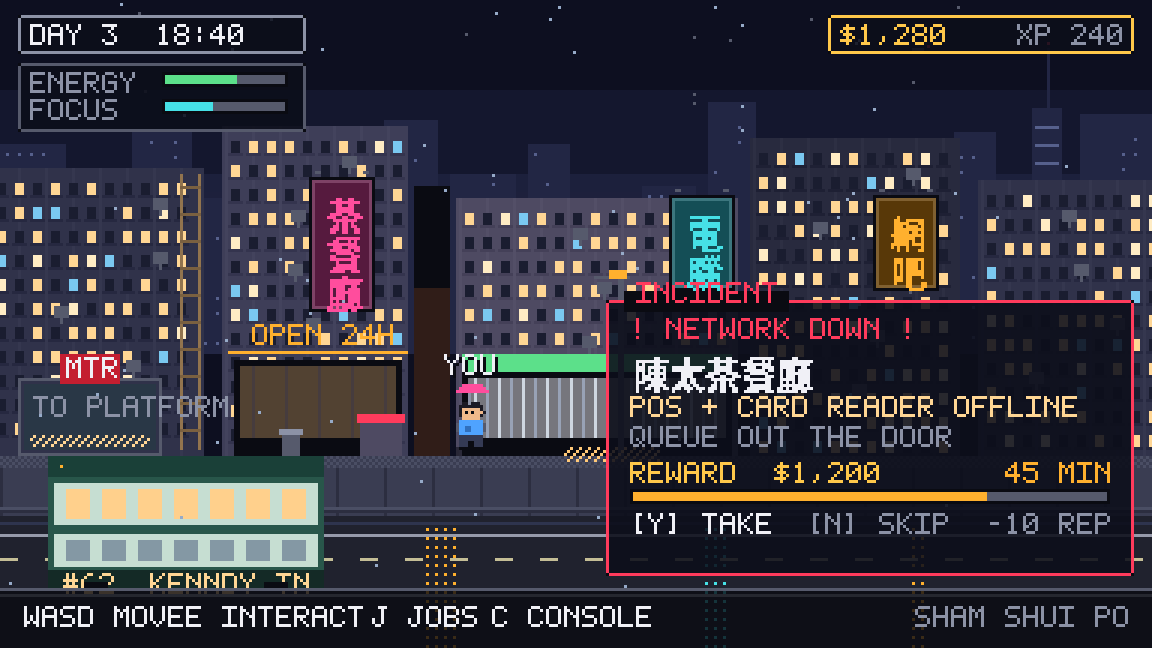
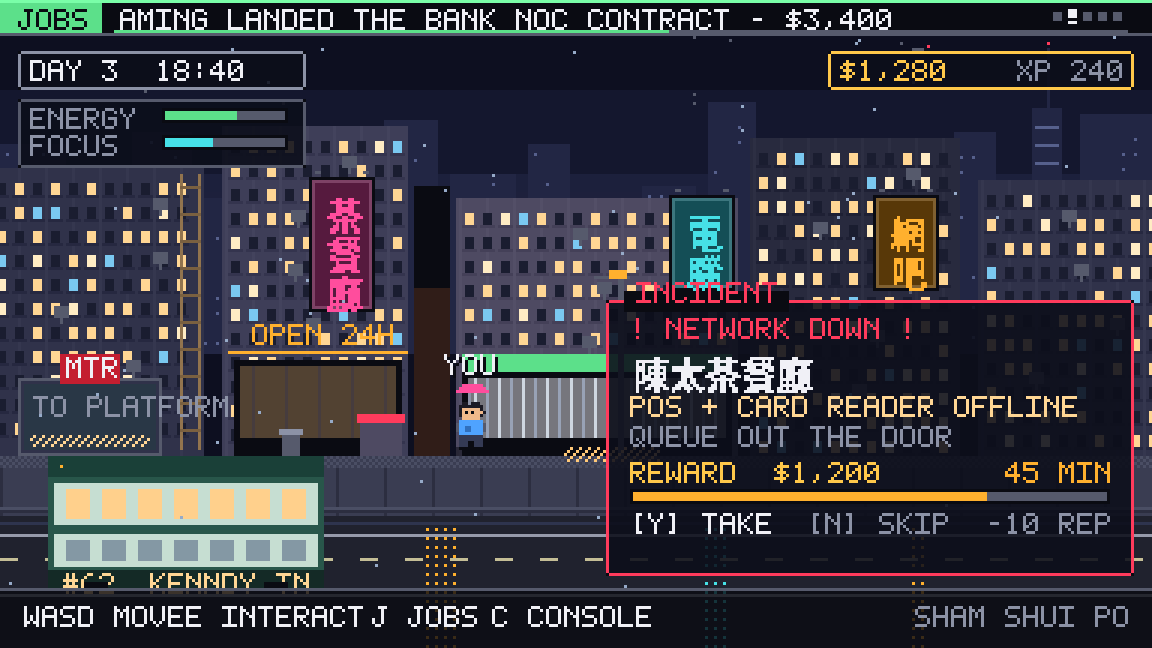
feat(wire): headline strip across every screen
Bloomberg-style 12 px strip at the top of the screen: world news, market
prices, distress calls, player milestones, and a richest-player fallback
when nothing has happened on the server.

- tools/mockup/wire.py: bar/breaking/leader renderers, slug taxonomy
- tools/mockup/scene_wire.py: spec sheet (in-context strip, fallback,
  breaking push, rotation rules)
- design doc 4.8 + 8.1: modes, dwell, flip-not-crawl rationale, and the
  server-authoritative replay that makes a money leaderboard honest
- risks: leaderboard inflation, comparison pressure, ticker as noise

Changed region(s): [[0.0, 0.0, 1.0, 0.2778]]

diff --git a/tools/mockup/wire.py b/tools/mockup/wire.py
@@ -1,0 +1,100 @@
+"""The wire — a Bloomberg-style headline strip across the top of the screen.
+
+Item taxonomy and colour coding live here so every scene draws it identically.
+Copy budget at scale 1: (384 - 40 - 40) // 6 = 50 characters.
+"""
+from __future__ import annotations
+
+import sys
+import os
+
+sys.path.insert(0, os.path.dirname(os.path.abspath(__file__)))
+from pixelart import Canvas, P, text_width  # noqa: E402
+
+WIRE_H = 12          # 1 border + 10 text + 1 border
+SLUG_W = 34          # "ALERT" is 5 chars = 30 px, so 34 with padding
+
+MODES = {
+    # mode: (slug, fill, text-on-slug)
+    "news":     ("WIRE", P["neon_cyan"]),
+    "market":   ("MKT", P["gold"]),
+    "distress": ("ALERT", P["neon_amber"]),
+    "player":   ("JOBS", P["neon_green"]),
+    "rich":     ("RICH", P["gold"]),
+    "breaking": ("LIVE", P["neon_red"]),
+}
+
+
+def tags(c: Canvas, x, y, total, active):
+    """Queue pips, so the player knows the strip repeats and how far in they are."""
+    for i in range(total):
+        col = P["white"] if i == active else P["grey_dk"]
+        if i == active:
+            c.rect(x + i * 5, y, 3, 3, col)
+            c.rect(x + i * 5, y + 4, 3, 1, col)
+        else:
+            c.rect(x + i * 5, y + 1, 3, 3, col)
+
+
+def bar(c: Canvas, mode: str, text: str, x=0, y=0, w=384, queue=(4, 0), dwell=0.6):
+    slug, colour = MODES[mode]
+    c.rect(x, y, w, WIRE_H, P["ink"])
+    c.hline(x, y, w, tuple(min(255, ch + 30) for ch in colour[:3]) + (255,))
+    c.hline(x, y + WIRE_H - 1, w, P["grey_dk"])
+    # slug
+    c.rect(x, y + 1, SLUG_W, WIRE_H - 2, colour)
+    c.text_c(x + SLUG_W // 2, y + 3, slug, P["ink"])
+    # headline
+    c.text(x + SLUG_W + 6, y + 3, text, P["white"])
+    # queue pips + dwell bar
+    total, active = queue
+    tags(c, x + w - 8 - total * 5, y + 3, total, active)
+    c.rect(x + SLUG_W + 4, y + WIRE_H - 2, w - SLUG_W - 12, 1, P["grey_dk"])
+    c.hline(x + SLUG_W + 4, y + WIRE_H - 2, int((w - SLUG_W - 12) * dwell), colour)
+
+
+def breaking(c: Canvas, headline: str, detail: str, x=0, y=0, w=384):
+    """Two lines, taller, red. Interrupts anything, including a job in progress."""
+    h = 22
+    c.alpha_rect(x, y, w, h, P["ink"], 245)
+    c.frame(x, y, w, h, P["neon_red"])
+    c.rect(x + 1, y + 1, 28, h - 2, P["neon_red"])
+    # pulsing dot, drawn static in mockups
+    c.rect(x + 11, y + 7, 5, 5, P["white"])
+    c.text(x + 34, y + 4, headline, P["neon_red"])
+    c.text(x + 34, y + 13, detail, P["grey"])
+    c.text_r(x + w - 6, y + 4, "[t] open", P["white"])
+    return h
+
+
+def leader(c: Canvas, rows, x=0, y=0, w=384, subtitle="RICH LIST - THIS CLASS"):
+    """Fallback mode: no live news, so the strip becomes the money scoreboard."""
+    c.rect(x, y, w, WIRE_H, P["ink"])
+    c.hline(x, y, w, P["gold"])
+    c.hline(x, y + WIRE_H - 1, w, P["grey_dk"])
+    c.rect(x, y + 1, SLUG_W, WIRE_H - 2, P["gold"])
+    c.text_c(x + SLUG_W // 2, y + 3, "RICH", P["ink"])
+    cx = x + SLUG_W + 6
+    for i, (rank, name, money, is_you) in enumerate(rows):
+        col = P["gold"] if is_you else P["white"]
+        label = f"{rank} {name} {money}"
+        c.text(cx, y + 3, label, col)
+        cx += text_width(label) + 10
+        if i < len(rows) - 1:
+            c.set(cx - 6, y + 6, P["grey_dk"])
+    c.text_r(x + w - 6, y + 3, "TAB", P["grey"])
+
+
+def legend(c: Canvas, x, y):
+    rows = [
+        ("WIRE", P["neon_cyan"], "world + player news, 6 s each"),
+        ("MKT", P["gold"], "prices, rent, wages, 2.5 s each"),
+        ("ALERT", P["neon_amber"], "distress call - opens the job board"),
+        ("PEOPLE", P["neon_green"], "anyone landed a job / promoted / bought"),
+        ("RICH", P["gold"], "fallback when nothing happened in 6 h"),
+    ]
+    for i, (slug, colour, desc) in enumerate(rows):
+        yy = y + i * 11
+        c.rect(x, yy, 30, 9, colour)
+        c.text_c(x + 15, yy + 1, slug, P["ink"])
+        c.text(x + 36, yy + 1, desc, P["grey"])

diff --git a/tools/mockup/scene_city.py b/tools/mockup/scene_city.py
@@ -7,6 +7,7 @@ import os
 
 sys.path.insert(0, os.path.dirname(os.path.abspath(__file__)))
 from pixelart import Canvas, P, text_width  # noqa: E402
+import wire  # noqa: E402
 
 W, H = 384, 216
 GROUND = 152          # pavement top
@@ -211,18 +212,17 @@ def rain(c: Canvas, rng):
         c.set(x, y, (150, 170, 200, 255))
 
 
-def hud(c: Canvas):
-    c.panel(6, 5, 96, 13, border=P["grey"])
-    c.text(10, 8, "day 3  18:40", P["white"])
-    c.panel(276, 5, 102, 13, border=P["gold"])
-    c.text(280, 8, "$1,280", P["gold"])
-    c.text_r(374, 8, "xp 240", P["grey"])
-    c.panel(6, 21, 96, 23, border=P["grey_dk"])
-    c.text(10, 24, "energy", P["grey"])
-    c.meter(54, 24, 42, 5, 0.62, P["neon_green"])
-    c.text(10, 33, "focus", P["grey"])
-    c.meter(54, 33, 42, 5, 0.40, P["neon_cyan"])
-    c.text(10, 41, "", P["grey"])
+def hud(c: Canvas, dy=0):
+    c.panel(6, 5 + dy, 96, 13, border=P["grey"])
+    c.text(10, 8 + dy, "day 3  18:40", P["white"])
+    c.panel(276, 5 + dy, 102, 13, border=P["gold"])
+    c.text(280, 8 + dy, "$1,280", P["gold"])
+    c.text_r(374, 8 + dy, "xp 240", P["grey"])
+    c.panel(6, 21 + dy, 96, 23, border=P["grey_dk"])
+    c.text(10, 24 + dy, "energy", P["grey"])
+    c.meter(54, 24 + dy, 42, 5, 0.62, P["neon_green"])
+    c.text(10, 33 + dy, "focus", P["grey"])
+    c.meter(54, 33 + dy, 42, 5, 0.40, P["neon_cyan"])
 
 
 def incident(c: Canvas):
@@ -260,7 +260,7 @@ def player(c: Canvas):
     c.text_c(x + 6, y - 16, "you", P["white"], shadow=P["ink"])
 
 
-def main():
+def render(with_wire=True):
     rng = random.Random(11)
     c = Canvas(W, H)
     sky(c, rng)
@@ -270,10 +270,19 @@ def main():
     tram(c, 16, 152)
     rain(c, rng)
     player(c)
-    hud(c)
+    if with_wire:
+        wire.bar(c, "player", "AMING LANDED THE BANK NOC CONTRACT - $3,400",
+                 queue=(5, 1), dwell=0.55)
+        hud(c, dy=wire.WIRE_H)
+    else:
+        hud(c)
     incident(c)
     footer(c)
-    c.save("01-city-night.png", scale=3)
+    return c
+
+
+def main():
+    render().save("01-city-night.png", scale=3)
 
 
 if __name__ == "__main__":

diff --git a/tools/mockup/scene_wire.py b/tools/mockup/scene_wire.py
@@ -1,0 +1,54 @@
+"""Mockup 05 — the wire: Bloomberg-style headline strip, its fallback and the breaking push."""
+from __future__ import annotations
+
+import sys
+import os
+
+sys.path.insert(0, os.path.dirname(os.path.abspath(__file__)))
+from pixelart import Canvas, P  # noqa: E402
+import wire  # noqa: E402
+import scene_city  # noqa: E402
+
+W, H = 384, 216
+
+
+def label(c: Canvas, y, s):
+    c.text(4, y, s, P["grey"])
+
+
+def main():
+    c = Canvas(W, H, (16, 17, 26, 255))
+
+    # --- in context: the top of the city screen, wire live
+    city = scene_city.render(with_wire=True)
+    c.paste(city.img.crop((0, 0, W, 92)), 0, 0)
+    c.alpha_rect(0, 86, W, 6, P["ink"], 200)
+    c.hline(0, 92, W, P["grey_dk"])
+
+    # --- sample 1: live news
+    label(c, 96, "MKT + NEWS - LIVE FEED, 6 S PER ITEM")
+    wire.bar(c, "market", "PARTS +12% AT GOLDEN ARCADE - CAT6 DRUM $680",
+             y=103, queue=(5, 2), dwell=0.35)
+
+    # --- sample 2: fallback leaderboard
+    label(c, 119, "FALLBACK - NOTHING HAPPENED ON THE SERVER FOR 6 H")
+    wire.leader(c, [("1", "AMING", "482K", False), ("2", "MS_CHAN", "310K", False),
+                    ("3", "YOU", "128K", True), ("4", "KEN", "96K", False)], y=126)
+
+    # --- sample 3: breaking push
+    label(c, 142, "BREAKING - TRUMPS ANY SCREEN, ONCE PER SESSION")
+    wire.breaking(c, "TYPHOON T8 - ALL TRANSPORT SUSPENDED",
+                  "emergency repairs pay 2x; you cannot reach the client",
+                  y=149)
+
+    # --- rules
+    c.text(4, 176, "alert = distress call, enter on the strip opens the job board", P["white"])
+    c.text(4, 186, "mkt = parts, rent and wages. 2.5 s dwell, gold slug.", P["white"])
+    c.text(4, 196, "rotation: newest first, then severity. pause on focus.", P["grey"])
+    c.text(4, 206, "no name is ever typed by a student - headlines are templates.", P["gold"])
+
+    c.save("05-wire.png", scale=3)
+
+
+if __name__ == "__main__":
+    main()

diff --git a/tools/mockup/build.py b/tools/mockup/build.py
@@ -9,6 +9,7 @@ import scene_city      # noqa: E402
 import scene_console   # noqa: E402
 import scene_home      # noqa: E402
 import scene_progress  # noqa: E402
+import scene_wire      # noqa: E402
 
-for mod in (scene_city, scene_console, scene_home, scene_progress):
+for mod in (scene_city, scene_console, scene_home, scene_progress, scene_wire):
     mod.main()

diff --git a/docs/design/game-design-document.md b/docs/design/game-design-document.md
@@ -4,7 +4,7 @@
 
 | | |
 |---|---|
-| **Status** | Concept v0.1 — direction agreed, systems drafted, demo not yet built |
+| **Status** | Concept v0.2 — direction agreed, systems drafted, wire spec'd, demo not yet built |
 | **Owner** | Ryan (ICT) · SSC-Program-Team |
 | **Repo** | `SSC-Program-Team/cit-game` |
 | **Platform** | Browser, desktop-first, keyboard-playable, offline-capable |
@@ -172,6 +172,33 @@ Two clocks: the **job clock** (the timed ticket) and the **city clock** (the wor
 - **Certs** (in-game, modelled on real ones): "CIT Certified Technician I/II", "Network Specialist", "Security Fundamentals". Each requires a mastery threshold and a practical exam job — never a multiple-choice test.
 - **Skill tree:** Diagnostics (faster checks), Configuration (fewer rework ticks), Security (audit reveals), Business (better quotes, staff quality).
 
+### 4.8 The wire — the headline strip
+
+Ten pixels at the top of every screen carry the world: who just landed a job, what broke, what parts cost this week, who is richest. It is the only part of the game that talks about other people, and it is what makes a solo session feel like a server.
+
+![The wire](../mockups/05-wire.png)
+
+| Slug | Content | Dwell | Source |
+|---|---|---|---|
+| `WIRE` | world + city news | 6 s | server events |
+| `MKT` | parts, rent, wage index | 2.5 s | economy ticks |
+| `ALERT` | distress call — a live job on the board | 6 s | job generator |
+| `JOBS` | a player landed / promoted / bought / certified | 6 s | validated player events |
+| `RICH` | the money leaderboard (fallback) | 8 s | standings query |
+| `LIVE` | breaking push, two lines, red | until dismissed | city events |
+
+**Rotation.** Newest first, then severity; one item at a time, 5-item window, queue pips on the right so the player knows the strip repeats. An item is never cut mid-word.
+
+**Fallback.** If the server produced no event in six in-game hours, the strip becomes `RICH` — the top four by money, class-scoped, with the player's own row in gold wherever they sit. The strip is never empty and never shows "no news"; a dead feed is worse than a boring one. `TAB` opens the full wire log and the full standings.
+
+**Breaking.** Typhoons, district outages, a client going dark, and one-per-session emergencies. It interrupts the city screen *and* the job screen, pauses nothing (the job clock keeps running), and `T` opens the story. Never more than one per session.
+
+**Interaction.** `ENTER` on an `ALERT` item opens the job board with that ticket pre-selected — the wire doubles as the job market, which is how real technicians find work.
+
+**Flip, not crawl.** A Bloomberg crawl at this font scrolls ~9 characters per second; a second-language reader loses the start of the sentence before it finishes. Default is a snap-flip with a dwell bar and queue pips; continuous crawl is a settings toggle for teachers who want atmosphere on a projector. `P` pauses the strip, and it pauses on keyboard focus.
+
+**During a job the strip shrinks to 0 px** except for `LIVE` — a ticker above a diagnostic console is a distraction tax on the exact task being assessed.
+
 ---
 
 ## 5. Learning design
@@ -271,6 +298,24 @@ cit-game/
 - **Testing:** Vitest on systems; Playwright smoke that plays all three demo jobs headless; a `sim:balance` script that runs 200 bot-played sessions to check the money curve before any tuning ships.
 - **Accessibility:** full keyboard play, remappable keys, text scale 1×/2×, colour never the only signal (shape + label for pass/fail), particle toggle, no flashing above 3 Hz, and a hard budget of **< 5 MB total assets** so it runs on a lab laptop over school Wi-Fi.
 
+### 8.1 The wire feed
+
+The strip has three sources, and which one ships when decides the whole backend story.
+
+| Version | Source | Why |
+|---|---|---|
+| v0.1 demo | `content/wire/npc_careers.json` — a scripted cast of 12 NPC technicians with their own careers | a class of three at 8 a.m. must not see an empty feed; the simulated world *is* the feature at this stage |
+| v1.0 class | server events from validated player completions | one class, one teacher, class-scoped standings |
+| v2.0 school | same table, more classes, opt-in global | comparison pressure is opt-in, never default |
+
+**Server-authoritative money, or no leaderboard.** The client never reports what it earned. On job completion it submits `{jobId, seed, taskLog, durationMs}`; the server replays the deterministic systems with that seed and derives the fee, mastery delta and rank. Only a replay that matches emits `player.job.completed`, and only those events can move the standings. This is the entire reason the systems in §8 are pure functions — a leaderboard that trusts `localStorage` is a leaderboard of whoever opened devtools.
+
+Additional guards: fee caps (a job can never pay more than its `fee × 1.2`), rate limits per handle, no client-supplied timestamps, and a teacher `unpublish` that hides any offending headline without deleting the event.
+
+**Text is templated, never authored.** Headlines are filled from validated fields (`{handle} landed the {jobTier} contract at {client}`, `{district} fibre cut — {n} client jobs at risk`). No student ever types a string that reaches another student's screen — that single rule removes abuse, doxxing and moderation from the problem list. Handles are generated at first run from a school-safe word list, with a custom option that is filtered and teacher-visible.
+
+**Privacy (PDPO).** The feed stores a handle, a money figure and a rank — no real names, no classes visible outside the class, no per-student event history retained past the term. Export and delete on request, and the whole feature can be switched off per class: some classes should not have a money ranking, and that is the teacher's call, not the design's.
+
 ---
 
 ## 9. v1 demo — one lesson
@@ -292,6 +337,7 @@ cit-game/
 5. Save survives a browser restart, and export/import round-trips.
 6. Works keyboard-only, at 60 fps on a 2019 lab laptop, under 5 MB.
 7. Editing one JSON file (e.g. the subnet requirement in job 2) changes the game with no code change, and CI rejects a malformed edit.
+8. The wire runs on the simulated NPC cast with at least 8 headline templates, falls back to `RICH` after six empty hours, and never shows an empty strip.
 
 **Explicitly out of scope for v1:** housing builds, business sim, MTR/districts, Chinese, accounts, leaderboards, mobile layout.
 
@@ -322,6 +368,9 @@ cit-game/
 | **Lab hardware** | old laptops, no GPU, school Wi-Fi | canvas fallback, < 5 MB, offline-capable, no server dependency |
 | **Data privacy** | student mastery data is personal data under the PDPO | local-first by default; any sync is opt-in, school-owned, documented |
 | **Teacher workload** | authoring 300 tasks is a term's work | generators for numeric topics; JSON import for existing question banks |
+| **Leaderboard inflation** | any client-trusted money figure is a cheat magnet, and a fake rich list kills trust in the whole scoreboard | server-side replay of the task log; fee caps; standings only from validated events |
+| **Comparison pressure** | a public ranking of money makes a slow learner feel ranked, not taught | class-scoped, handles only, off by default for S4, teacher switch, and the strip never sorts by mastery |
+| **Wire as noise** | a moving strip above a diagnostic console steals attention from the assessed task | strip collapses to 0 px during a job; `LIVE` only; pause on focus; reduced-motion mode |
 
 ---
 
@@ -332,6 +381,8 @@ cit-game/
 3. **Grades or practice** — do you want mastery exported into the marksheet, or is this deliberately outside assessment? *Recommendation: practice first; export behind a flag.*
 4. **Business sim** — is "run your own shop" essential to the story or a late optional branch? It is the most expensive system in the design. *Recommendation: v0.3 optional branch, employed track is the main line.*
 5. **Who authors content** — you writing JSON by hand, or an in-game authoring tool for you and other ICT teachers? *Recommendation: JSON + generators for v1, authoring tool only if a second school adopts it.*
+6. **Does "the server" mean a real backend at launch?** A shared class leaderboard needs accounts, a Postgres table and replay validation — a week of work that teaches nothing. *Recommendation: v0.1 ships the wire on the simulated NPC cast with no backend at all; the real feed lands in v1.0 when there is a class actually playing.*
+7. **Handles** — generated school-safe names, or do students pick their own (filtered)? *Recommendation: generated by default, custom opt-in and teacher-visible.*
 
 ---
 

diff --git a/README.md b/README.md
@@ -24,6 +24,7 @@ All mockups are generated pixel art (native 384×216, 3× upscale), not AI image
 | [Job ticket + diagnostic console](docs/mockups/02-job-console.png) | the learning surface: read real console output, name the fault |
 | [Home network build](docs/mockups/03-home-network.png) | the housing capstone: plan, cable, score coverage/cost/security |
 | [The ladder](docs/mockups/04-progression.png) | housing tiers and the employed / own-business fork |
+| [The wire](docs/mockups/05-wire.png) | the headline strip: live news, richest-player fallback, breaking push |
 
 Regenerate them:
 
@@ -41,5 +42,6 @@ local-first saves with export/import. See §8 of the design document.
 
 ## Open decisions
 
-Five questions are waiting on the teacher in §12 of the design doc — syllabus binding,
-lesson shape, grades vs practice, business-sim scope, and who authors content.
+Seven questions are waiting on the teacher in §12 of the design doc — syllabus binding,
+lesson shape, grades vs practice, business-sim scope, who authors content, whether the
+leaderboard needs a real backend at launch, and how player handles are chosen.
